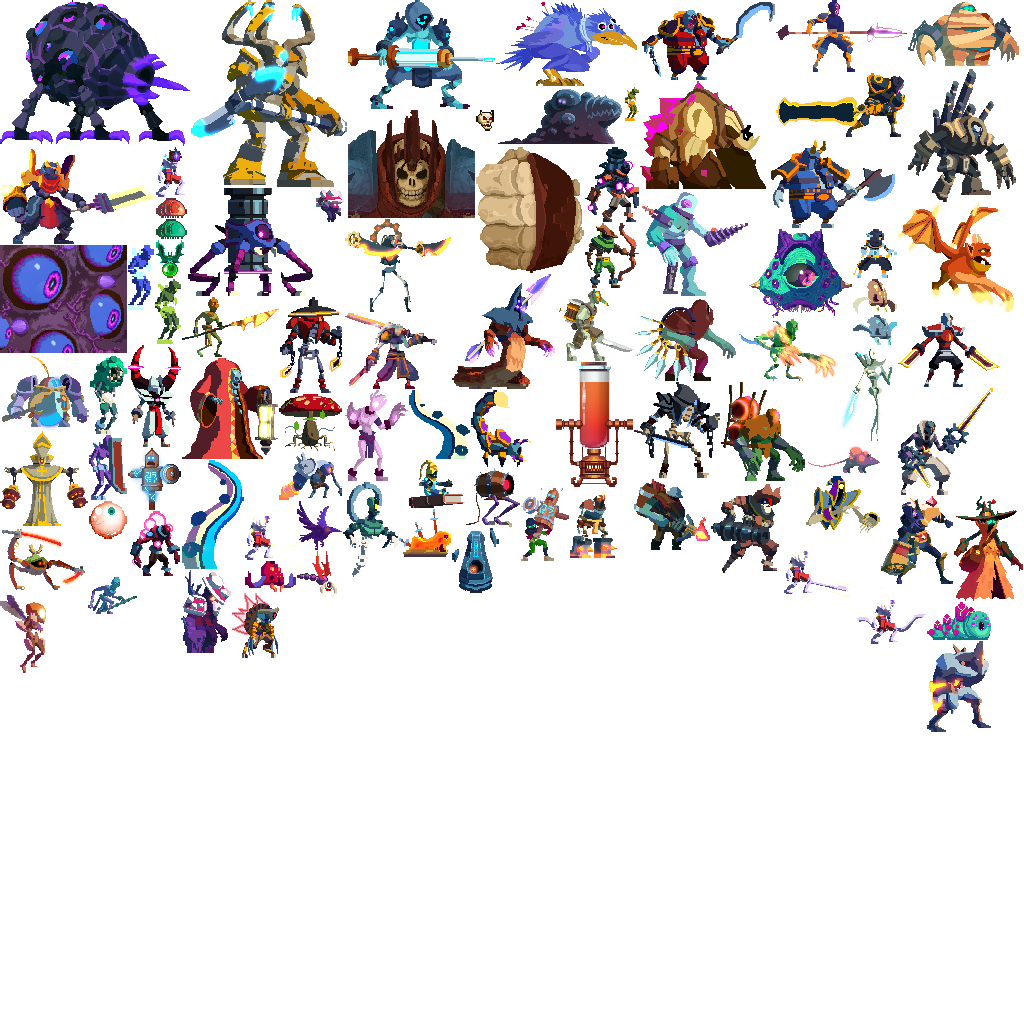
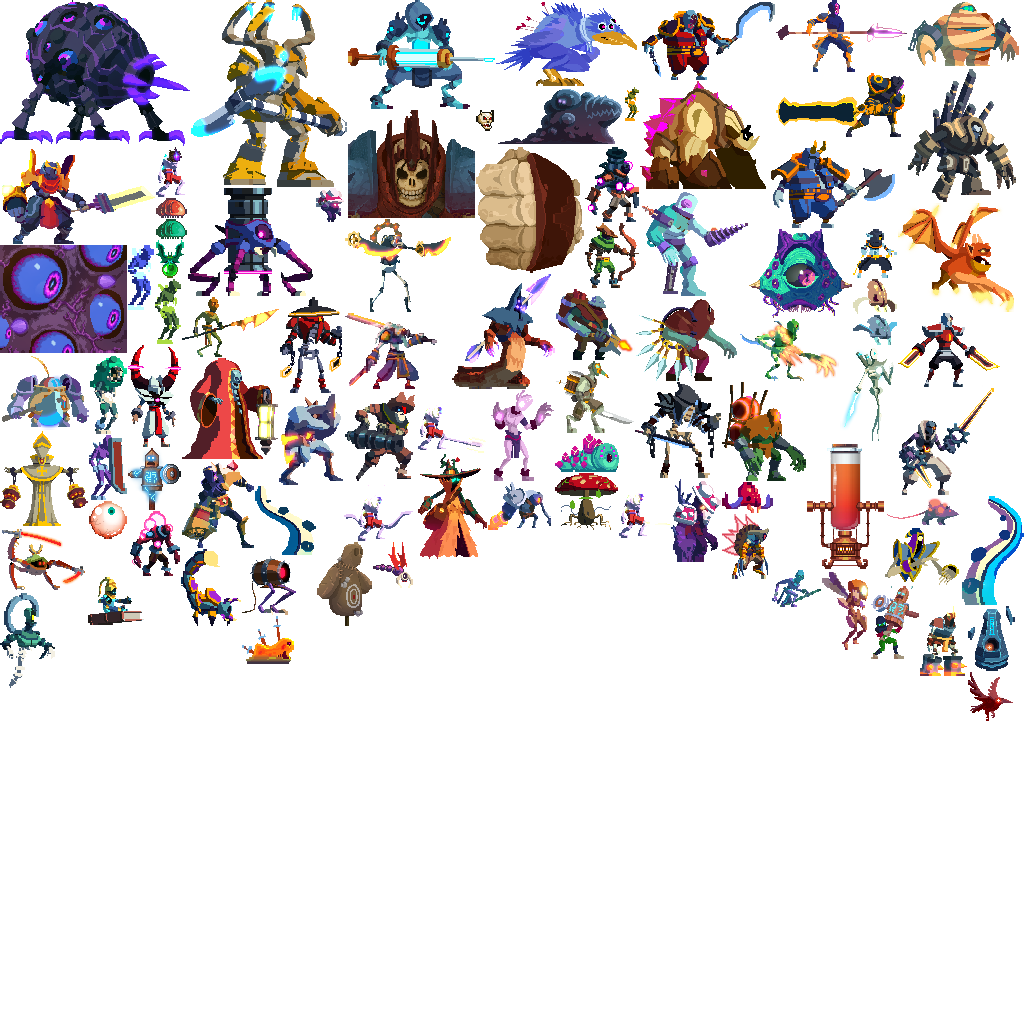
Update png assets, add new powers

Changed region(s): [[0.0938, 0.2812, 1.0, 0.7188], [0.0, 0.5625, 0.0625, 0.6562], [0.75, 0.3125, 0.8125, 0.375]]

diff --git a/src/constants/mapUserInput/mapUserInputPowerNames.js b/src/constants/mapUserInput/mapUserInputPowerNames.js
@@ -91,4 +91,13 @@ export default {
   COCOON: powerNames.COCOON,
   BUBBLESHIELDPOWER: powerNames.COCOON,
   BUBBLESHIELD: powerNames.COCOON,
+
+  // -------------------------- EVERYONE IS HERE ---------------------------- //
+  FACEFLASK: powerNames.FACE_FLASK,
+  FLASK: powerNames.FACE_FLASK,
+
+  POLLOPOWER: powerNames.POLLO_POWER,
+  CHICKENPOWER: powerNames.POLLO_POWER,
+  CHICKEN: powerNames.POLLO_POWER,
+  GUACAMELEEPOWER: powerNames.POLLO_POWER,
 };

diff --git a/src/constants/names/powerNames.js b/src/constants/names/powerNames.js
@@ -138,4 +138,16 @@ export default {
     TYPE: POWER,
     NAME: "Cocoon",
   },
+
+  // -------------------------- EVERYONE IS HERE ---------------------------- //
+  FACE_FLASK: {
+    INTERNAL_ID: "FACEFLASK",
+    TYPE: POWER,
+    NAME: "Face Flask",
+  },
+  POLLO_POWER: {
+    INTERNAL_ID: "POLLOPOWER",
+    TYPE: POWER,
+    NAME: "Pollo Power",
+  },
 };
